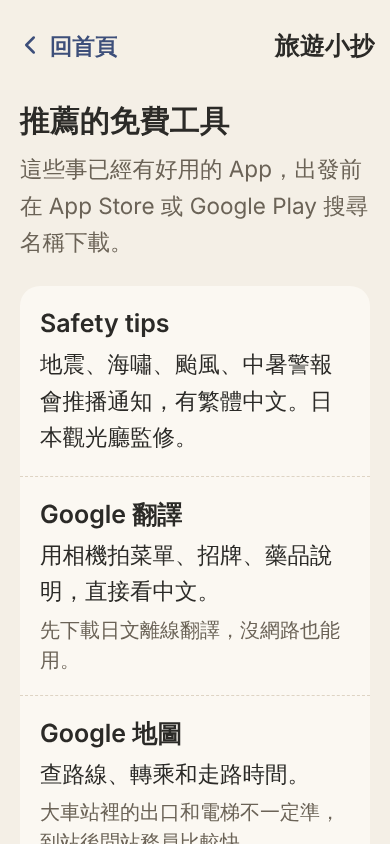
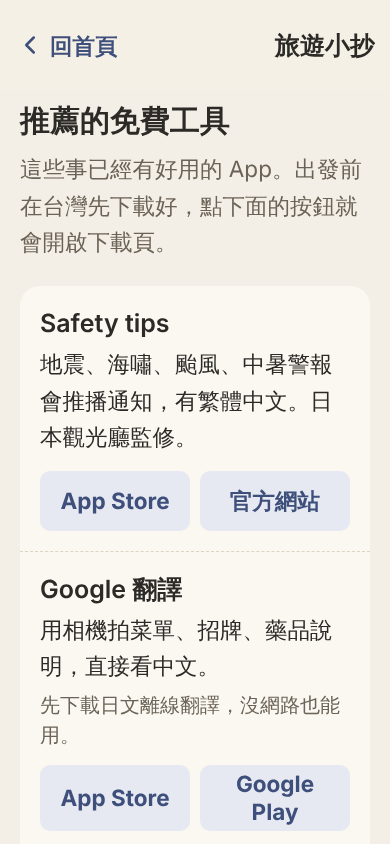
Recommended tools: direct store and official links (#32)
Each tool gets App Store / Google Play / 官方網站 buttons, two per row,
opening in a new tab. Only addresses confirmed via search are used; where a
Google Play address could not be confirmed, the publisher's page (which
links to both stores) is given instead. Tests require https links.

Claude-Session: https://claude.ai/code/session_01FL5DYQMe9ZWzkevjtD88Bj

diff --git a/src/content/tools.ts b/src/content/tools.ts
@@ -1,8 +1,9 @@
 /**
  * Free tools that already do a job well, so this app points to them instead
- * of rebuilding them. Named, not linked: travellers find them by searching
- * the app store, and store links break. Checked 2026-10-11 from search
- * results quoting the publishers' announcements (sources below).
+ * of rebuilding them. Links were checked 2026-10-11 against search results
+ * for the store listings and the publishers' own pages; only addresses that
+ * could be confirmed are listed (sources below). Where a store address could
+ * not be confirmed, the publisher's page links to both stores.
  */
 export interface Tool {
   id: string;
@@ -11,7 +12,17 @@ export interface Tool {
   use: string;
   /** Anything to know before relying on it. */
   note?: string;
+  links: ToolLink[];
 }
+
+export interface ToolLink {
+  label: "App Store" | "Google Play" | "官方網站";
+  url: string;
+}
+
+const appStore = (id: string): ToolLink => ({ label: "App Store", url: `https://apps.apple.com/app/id${id}` });
+const googlePlay = (pkg: string): ToolLink => ({ label: "Google Play", url: `https://play.google.com/store/apps/details?id=${pkg}` });
+const site = (url: string): ToolLink => ({ label: "官方網站", url });
 
 export const TOOLS: Tool[] = [
   {
@@ -19,18 +30,21 @@ export const TOOLS: Tool[] = [
     name: "Safety tips",
     use: "地震、海嘯、颱風、中暑警報會推播通知，有繁體中文。日本觀光廳監修。",
     // https://www.city.nagoya.jp/bousaiportal/international/1037420.html (15 languages incl. Traditional Chinese)
+    links: [appStore("858357174"), site("https://www.rcsc.co.jp/safety-tips-en")],
   },
   {
     id: "google-translate",
     name: "Google 翻譯",
     use: "用相機拍菜單、招牌、藥品說明，直接看中文。",
     note: "先下載日文離線翻譯，沒網路也能用。",
+    links: [appStore("414706506"), googlePlay("com.google.android.apps.translate")],
   },
   {
     id: "google-maps",
     name: "Google 地圖",
     use: "查路線、轉乘和走路時間。",
     note: "大車站裡的出口和電梯不一定準，到站後問站務員比較快。",
+    links: [appStore("585027354"), googlePlay("com.google.android.apps.maps")],
   },
   {
     id: "go-taxi",
@@ -38,6 +52,7 @@ export const TOOLS: Tool[] = [
     use: "在日本叫計程車，2026 年 3 月起有繁體中文。",
     note: "建議出發前先下載、註冊好。",
     // https://www.travelvoice.jp/english/japan-s-taxi-app-go-opens-a-mini-program-in-china-s-no-1-communication-app-wechat-in-partnership-with-e-ticket-platform-linktivity
+    links: [appStore("1254341709"), site("https://go.goinc.jp/lp/inbound")],
   },
   {
     id: "welcome-suica",
@@ -45,11 +60,13 @@ export const TOOLS: Tool[] = [
     use: "iPhone 用的交通卡，不用押金，可以搭車和在便利商店付款。",
     note: "只有 iPhone 能用，效期 180 天。",
     // https://www.businesswire.com/news/home/20250310510899/en (launched 2025-03-06)
+    links: [appStore("6738336566")],
   },
   {
     id: "visit-japan-web",
     name: "Visit Japan Web",
     use: "入境審查和海關申報的 QR code。部分機場也能用來辦出境退稅。",
     note: "出發前在台灣先填好。",
+    links: [site("https://www.digital.go.jp/en/services/visit_japan_web-en")],
   },
 ];

diff --git a/src/ui/guide.ts b/src/ui/guide.ts
@@ -37,7 +37,7 @@ export function renderTools(root: HTMLElement): void {
     h(
       "p",
       { class: "mt-2 text-lg leading-relaxed text-muted" },
-      "這些事已經有好用的 App，出發前在 App Store 或 Google Play 搜尋名稱下載。",
+      "這些事已經有好用的 App。出發前在台灣先下載好，點下面的按鈕就會開啟下載頁。",
     ),
     h(
       "ul",
@@ -49,6 +49,23 @@ export function renderTools(root: HTMLElement): void {
           h("h3", { class: "text-xl font-semibold" }, tool.name),
           h("p", { class: "mt-1 text-lg leading-relaxed" }, tool.use),
           tool.note && h("p", { class: "mt-1 text-base text-muted" }, tool.note),
+          h(
+            "div",
+            { class: "mt-3 grid grid-cols-2 gap-2" },
+            tool.links.map((link) =>
+              h(
+                "a",
+                {
+                  href: link.url,
+                  target: "_blank",
+                  rel: "noopener",
+                  "aria-label": `${tool.name}：${link.label}`,
+                  class: "inline-flex min-h-12 items-center justify-center rounded-lg bg-ai-soft px-2 py-1 text-center text-lg font-bold leading-tight text-ai active:scale-95",
+                },
+                link.label,
+              ),
+            ),
+          ),
         ),
       ),
     ),

diff --git a/tests/content.test.ts b/tests/content.test.ts
@@ -82,6 +82,8 @@ describe("phrase groups", () => {
     for (const tool of TOOLS) {
       expect(tool.name.trim(), tool.id).not.toBe("");
       expect(tool.use.trim(), tool.id).not.toBe("");
+      expect(tool.links.length, tool.id).toBeGreaterThan(0);
+      for (const link of tool.links) expect(link.url, tool.id).toMatch(/^https:\/\//);
     }
   });
 
